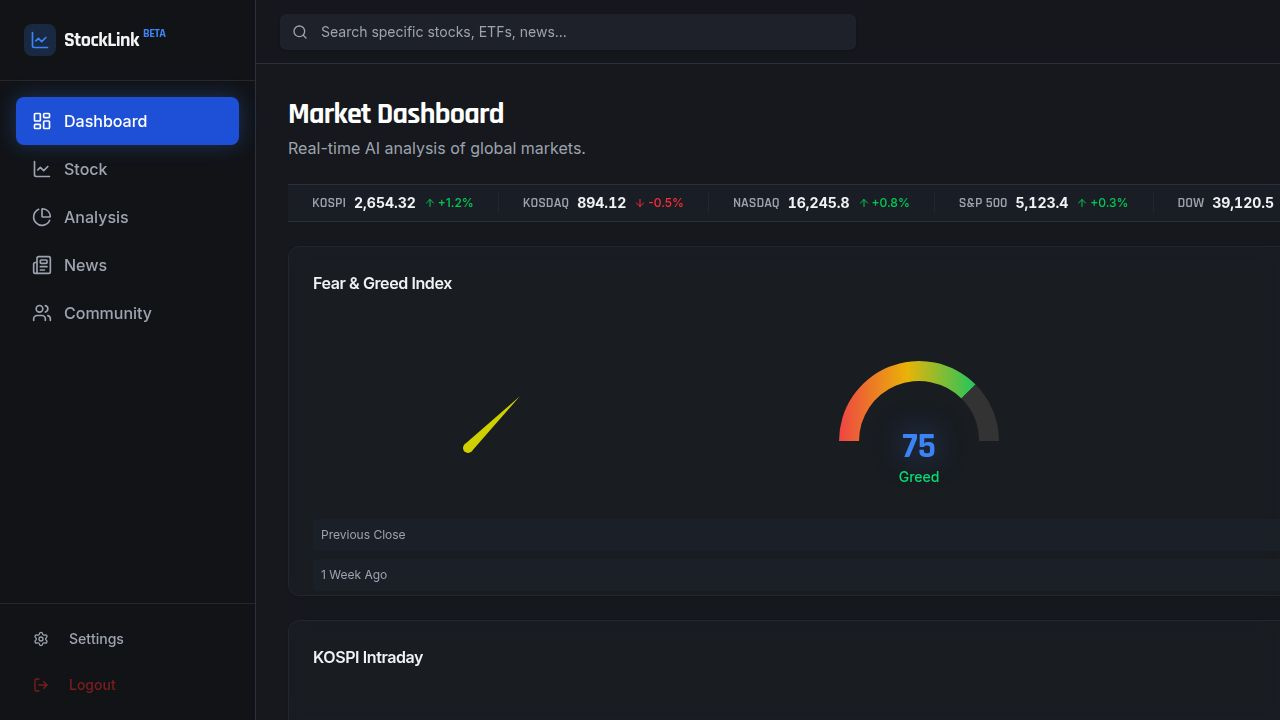
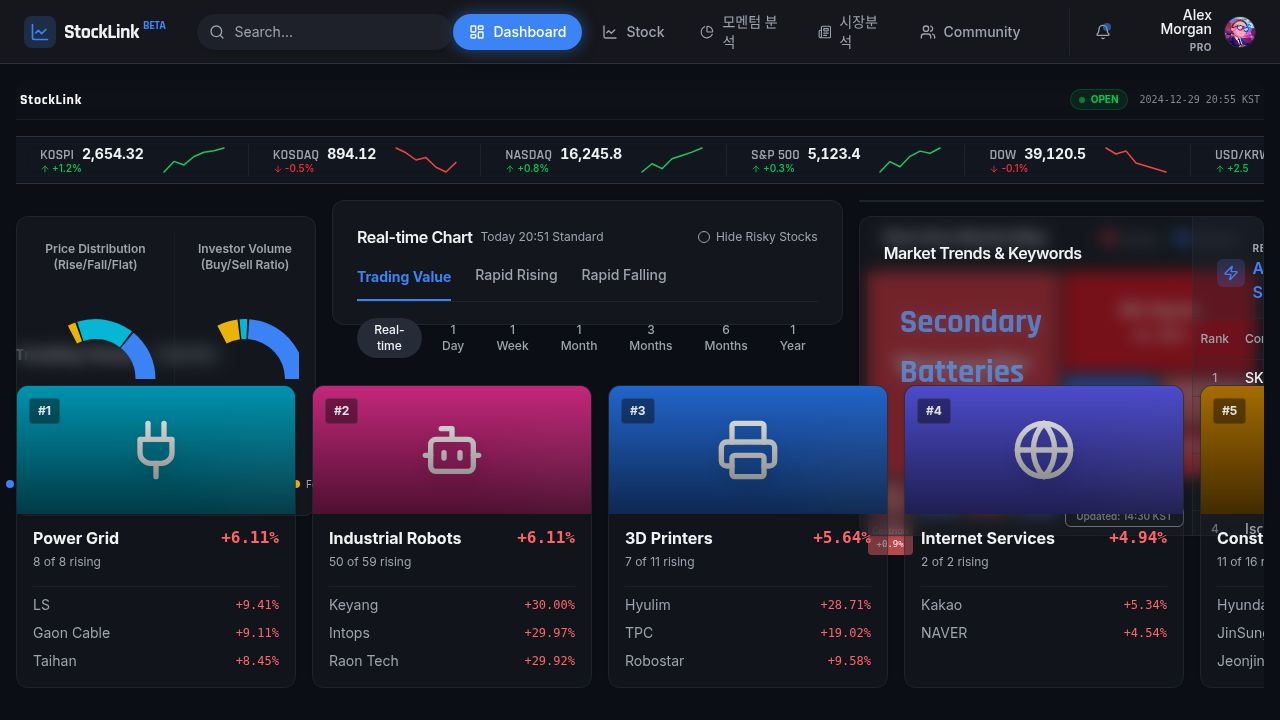
Reduce header size and reorganize dashboard for better space utilization
Significantly reduce the size of the top header section in the dashboard, removing the title and description, and consolidating market status and time information into a more compact display.

Replit-Commit-Author: Agent
Replit-Commit-Session-Id: 597f4d6c-0425-4dd4-9709-98f03dcb4161
Replit-Commit-Checkpoint-Type: full_checkpoint
Replit-Commit-Event-Id: b85a6184-7354-4f54-85af-374017ee018d
Replit-Commit-Screenshot-Url: https://storage.googleapis.com/screenshot-production-us-central1/a443e579-0eec-4716-9714-1f3f39332136/597f4d6c-0425-4dd4-9709-98f03dcb4161/PKapbc1
Replit-Helium-Checkpoint-Created: true

diff --git a/client/src/pages/dashboard.tsx b/client/src/pages/dashboard.tsx
@@ -23,18 +23,17 @@ export default function Dashboard() {
   return (
     <DashboardLayout>
       <div className="flex flex-col h-[calc(100vh-4rem)] gap-4 p-4 overflow-hidden">
-        {/* Top Header Section - Compact */}
-        <div className="flex justify-between items-end shrink-0">
-          <div>
-            <h1 className="text-2xl font-display font-bold tracking-tight text-white mb-0.5">Market Dashboard</h1>
-            <p className="text-sm text-muted-foreground">Real-time AI analysis of global markets.</p>
+        {/* Top Header Section - Ultra Compact */}
+        <div className="flex justify-between items-center shrink-0 h-10 border-b border-border/40 bg-card/20 backdrop-blur-sm px-1 rounded-t-lg">
+          <div className="flex items-center gap-3">
+             <span className="text-sm font-display font-bold text-white tracking-wider">StockLink</span>
           </div>
-          <div className="flex flex-col items-end gap-0.5">
-             <div className="flex items-center gap-2">
-                <span className="flex h-2 w-2 rounded-full bg-green-500 animate-pulse"></span>
-                <span className="text-xs text-green-500 font-medium">Market Open</span>
+          <div className="flex items-center gap-3">
+             <div className="flex items-center gap-1.5 px-2 py-0.5 bg-green-500/10 rounded-full border border-green-500/20">
+                <span className="flex h-1.5 w-1.5 rounded-full bg-green-500 animate-pulse"></span>
+                <span className="text-[10px] text-green-500 font-bold uppercase">Open</span>
              </div>
-             <span className="text-[10px] text-muted-foreground font-mono">Data as of: 2024-12-29 20:55 KST</span>
+             <span className="text-[10px] font-mono text-muted-foreground/80">2024-12-29 20:55 KST</span>
           </div>
         </div>
 
